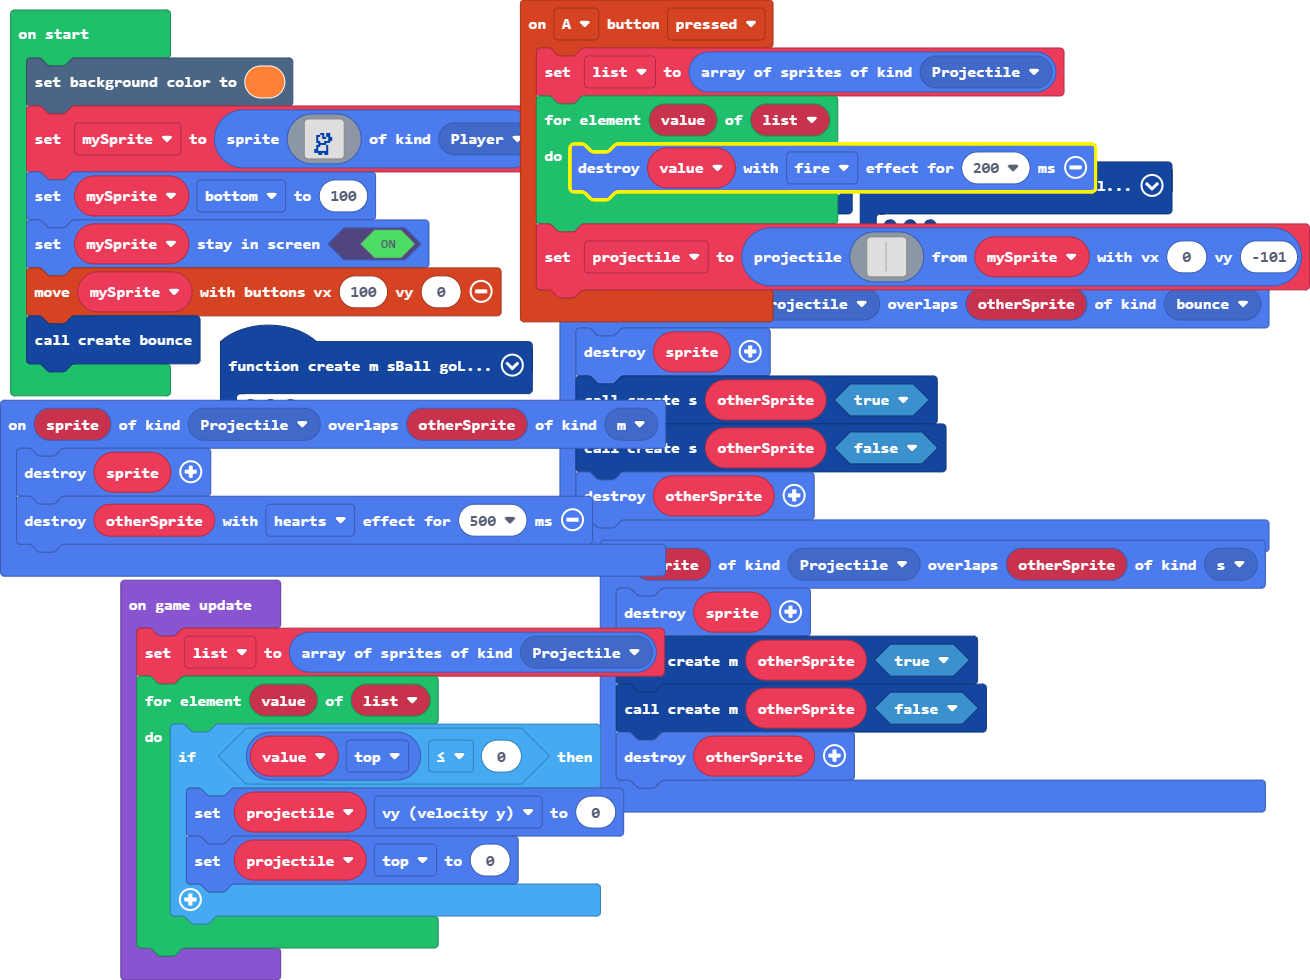
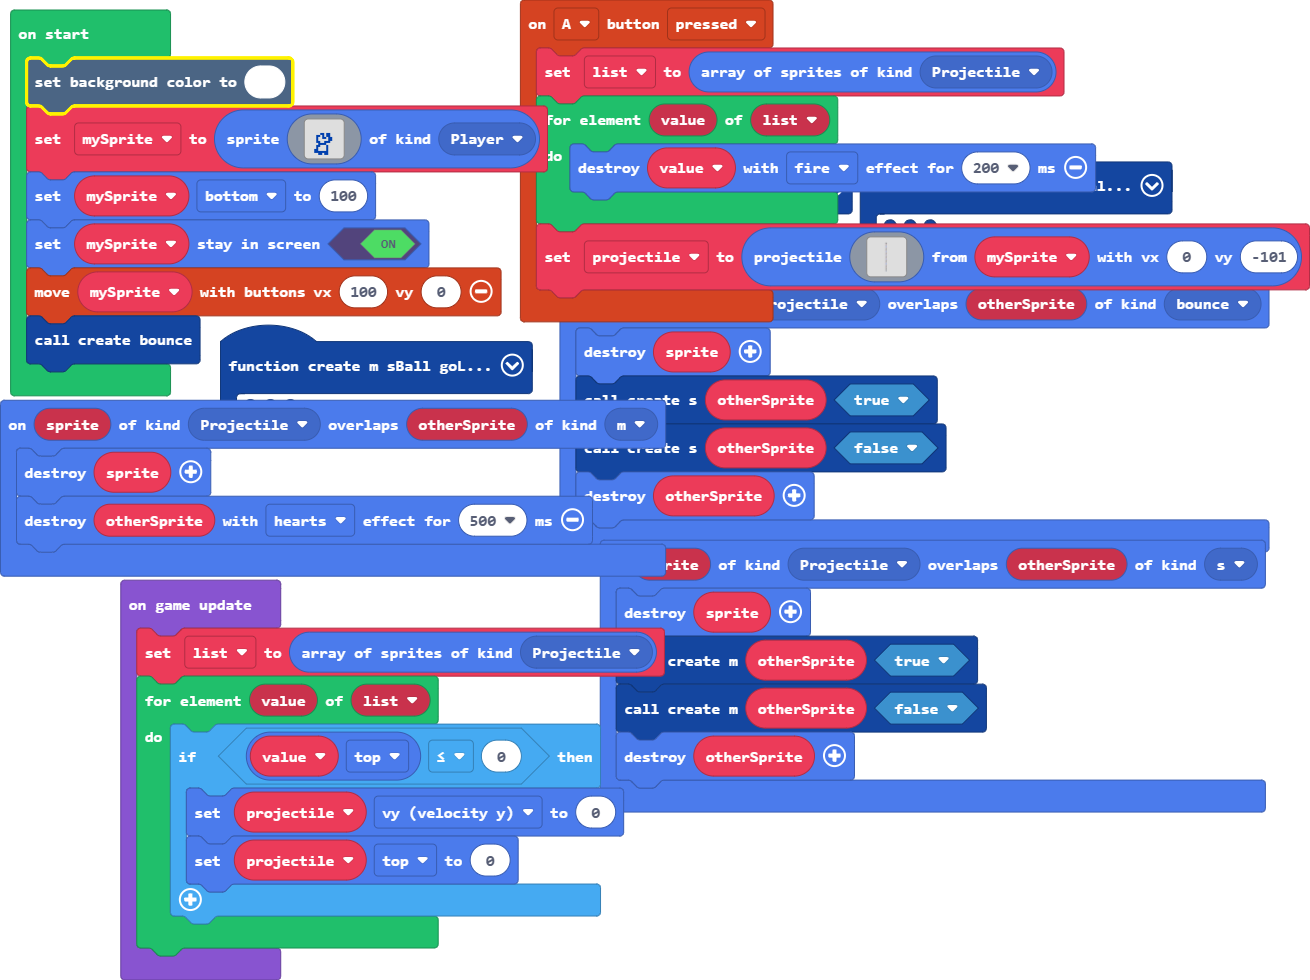
v3

Changed region(s): [[0.3969, 0.0918, 0.8244, 0.2143], [0.0305, 0.0306, 0.2443, 0.1224], [0.458, 0.1224, 0.8244, 0.1531]]

diff --git a/main.ts b/main.ts
@@ -231,7 +231,7 @@ let projectile: Sprite = null
 let list: Sprite[] = []
 let ball: Sprite = null
 let mySprite: Sprite = null
-scene.setBackgroundColor(4)
+scene.setBackgroundColor(1)
 mySprite = sprites.create(img`
     . . . . . . . . . . . . . . . . 
     . . . . . . . . . . . . . . . . 
